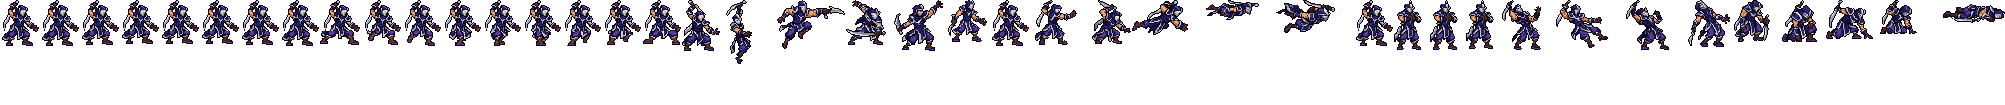
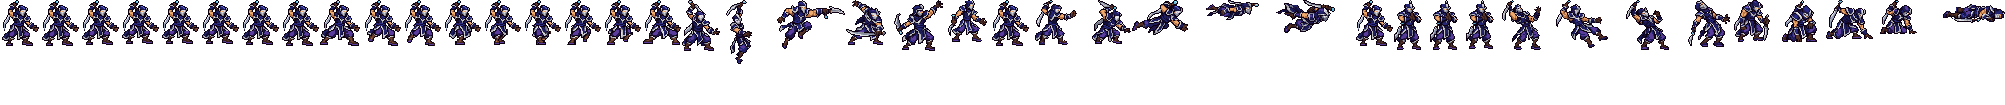
Shen (#85): run joins the design's upper body at the sash, Codex's legs untouched below
Cutting at row 85 laid the design's skirt tops over Codex's skirts and legs (the user:
「腿变形了啊大哥」). Now the design down to its sash (its arms below) sits on each frame's
own sash row; everything under the sash is Codex's, square for square.

Changed region(s): [[0.1546, 0.2286, 0.3401, 0.4286]]

diff --git a/tools/art/fix_shen_strips.py b/tools/art/fix_shen_strips.py
@@ -56,12 +56,29 @@ CANVAS_SQUARE = 1254 / 128
 # bulbs hid behind the apron or rose into the sash; the user: 「腿变形严重了 交叉步也不对」.)
 RUN_SHEET = os.path.join(ROOT, "assets", "source", "shen", "codex_run_swap", "shen_run_3x3_1x.png")
 RUN_CELL, RUN_SOLES = 60, 55
-# The user kept Codex's legs and asked for the design's upper body (「腿部ok的 上半身用之前的」): the design's rows above
-# RUN_CUT (head, arms, sword, sash; its near hand down to row RUN_CUT + 1) square for square over Codex's legs and
-# hems below RUN_CUT, RUN_BOB rows lower per frame (down only).
-RUN_CUT = 85
-RUN_HAND_COL = 78
-RUN_BOB = [1, 1, 0, 0, 0, 0, 0, 1, 1]   # lowest in the wide strides (1-2, 8-9), up through the pass
+# The user kept Codex's legs and asked for the design's upper body (「腿部ok的 上半身用之前的」): the design down to its
+# sash (rows <= DES_SASH; its arms hang lower: the sword arm to row 84 at columns <= ARM_COL, the near hand per row
+# from HAND_FROM) square for square over everything of Codex's below the sash. RUN_SASH: the lowest row of Codex's sash
+# (its purple knot) per frame, read off the frames; the design's sash goes down onto it, never up (a body lifted off
+# its legs would open a gap at the waist). (Cutting at the design's row 85 instead kept the design's skirt tops over
+# Codex's skirts and legs - the user: 「腿变形了啊大哥」.)
+DES_SASH = 79
+RUN_SASH = [78, 78, 78, 80, 80, 80, 80, 80, 80]
+ARM_ROWS, ARM_COL = range(80, 85), 50
+HAND_FROM = {80: 72, 81: 74, 82: 75, 83: 78, 84: 78, 85: 80}
+
+
+def upper(des):
+    """The design's head, torso, arms and sash: everything down to its sash, its arms below it."""
+    up = des.copy()
+    up[DES_SASH + 1:] = 0
+    for y in ARM_ROWS:
+        up[y, :ARM_COL + 1] = des[y, :ARM_COL + 1]
+    for y, x in HAND_FROM.items():
+        up[y, x:] = des[y, x:]
+    return up
+
+
 EYE = (239, 226, 246)
 SPECK = 4
 
@@ -362,14 +379,19 @@ def swap_frame(k, des):
     dy, dx = SOLES - RUN_SOLES, int(round(feet_mid(des, SOLES))) - RUN_CELL // 2
     ys, xs = np.nonzero(cell[..., 3] > 0)
     can[ys + dy, xs + dx] = cell[ys, xs]
-    bob = RUN_BOB[k - 1]
-    up = des.copy()
-    up[RUN_CUT:, :RUN_HAND_COL] = 0
-    up[RUN_CUT + 2:] = 0
-    up = shift(up, 0, bob)
-    can[:RUN_CUT + bob] = 0
+    bob = max(0, RUN_SASH[k - 1] - DES_SASH)
+    can[:DES_SASH + bob + 1] = 0
+    up = shift(upper(des), 0, bob)
     m = up[..., 3] > 0
     can[m] = up[m]
+    # the sash's corner outline squares left hanging over a narrower waist (one neighbour or none) go
+    op = can[..., 3] > 0
+    nb = ndimage.convolve(op.astype(int), np.ones((3, 3), int), mode="constant") - op
+    y0 = DES_SASH + bob
+    lone = op & (nb <= 1)
+    lone[:y0 - 1] = False
+    lone[y0 + 2:] = False
+    can[lone] = 0
     return can
 
 
